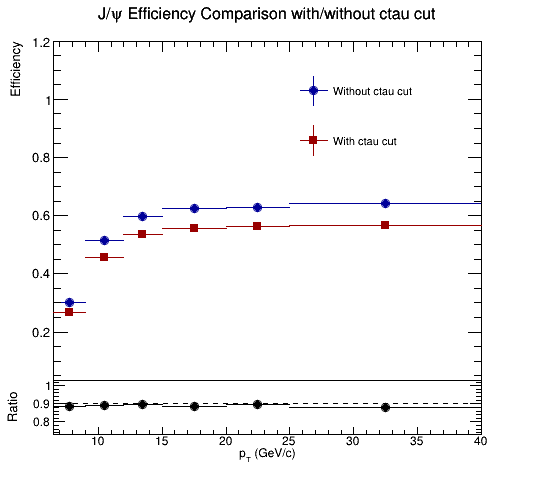
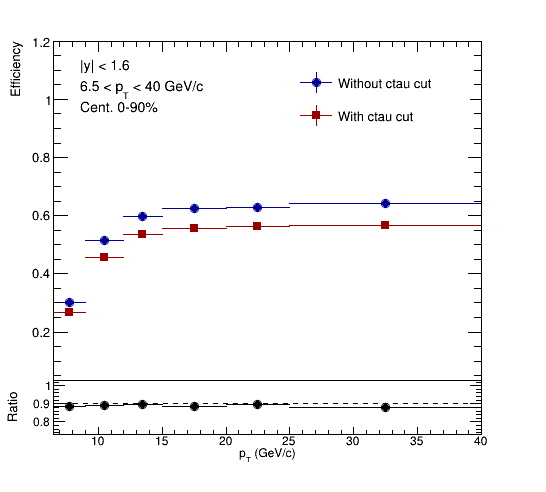
Updated Efficiency with ctau cut efficiency

diff --git a/Eff_Acc/draw_ctauCut.C b/Eff_Acc/draw_ctauCut.C
@@ -13,6 +13,13 @@ using namespace std;
 void draw_ctauCut()
 {
     gStyle->SetOptStat(0);
+
+    float pos_x = 0.70;
+	float pos_y = 0.85;
+	float pos_y_diff = 0.051;
+	int text_color = 1;
+	float text_size = 12;    
+
     TFile *f_pt_PR = new TFile("./roots_ctau3D/ctau3D_cut_ptBin_PRMC_cent0-180.root");
     TFile *f_pt_NP = new TFile("./roots_ctau3D/ctau3D_cut_ptBin_NPMC_cent0-180.root");
     
@@ -22,15 +29,15 @@ void draw_ctauCut()
     TH1D *h_pt_NP_mid = (TH1D*)f_pt_NP->Get("h_ctau_ptBin_mid");    
 
     // Forward rapidity 피팅 함수: a + b/pT
-    TF1* f1_fwd = new TF1("f1_fwd","[0]+[1]/x", 3.5, 40);
-    f1_fwd->SetParameters(0.01, 0.1);  // 초기값 설정
+    TF1* f1_fwd = new TF1("f1_fwd","[0]+[1]/x", 3., 40);
+    f1_fwd->SetParameters(0.01, 0.3);  // 초기값 설정
     f1_fwd->SetParNames("a", "b");
     f1_fwd->SetLineColor(kRed);
     f1_fwd->SetLineWidth(2);
 
     // Mid rapidity 피팅 함수: a + b/pT
     TF1* f1_mid = new TF1("f1_mid","[0]+[1]/x", 6.5, 40);
-    f1_mid->SetParameters(0.01, 0.1);  // 초기값 설정
+    f1_mid->SetParameters(0.01, 0.2);  // 초기값 설정
     f1_mid->SetParNames("a", "b");
     f1_mid->SetLineColor(kRed);
     f1_mid->SetLineWidth(2);
@@ -56,9 +63,9 @@ void draw_ctauCut()
     cout << "b = " << f1_fwd->GetParameter(1) << " +/- " << f1_fwd->GetParError(1) << endl;
     cout << "Chi2/NDF = " << f1_fwd->GetChisquare() << "/" << f1_fwd->GetNDF() << endl;
 
-    drawText(Form("#chi^{2}/NDF = %.2f/%d", f1_fwd->GetChisquare(), f1_fwd->GetNDF()), 0.15, 0.85, 0.03);
-    drawText(Form("a = %.4f #pm %.4f", f1_fwd->GetParameter(0), f1_fwd->GetParError(0)), 0.15, 0.80, 0.03);
-    drawText(Form("b = %.4f #pm %.4f", f1_fwd->GetParameter(1), f1_fwd->GetParError(1)), 0.15, 0.75, 0.03);
+    drawText(Form("#chi^{2}/NDF = %.2f/%d", f1_fwd->GetChisquare(), f1_fwd->GetNDF()), pos_x, pos_y, text_color, text_size);
+    drawText(Form("a = %.4f #pm %.4f", f1_fwd->GetParameter(0), f1_fwd->GetParError(0)), pos_x, pos_y-pos_y_diff, text_color, text_size);
+    drawText(Form("b = %.4f #pm %.4f", f1_fwd->GetParameter(1), f1_fwd->GetParError(1)), pos_x, pos_y-pos_y_diff*2, text_color, text_size);
     
     c_PR_fwd->SaveAs("./figs/ctauCut_ptBin_PR_fwd.pdf");
 
@@ -77,6 +84,9 @@ void draw_ctauCut()
     h_pt_PR_mid->Draw("P");
     f1_mid->Draw("same");
     
+    drawText(Form("#chi^{2}/NDF = %.2f/%d", f1_mid->GetChisquare(), f1_mid->GetNDF()), pos_x, pos_y, text_color, text_size);
+    drawText(Form("a = %.4f #pm %.4f", f1_mid->GetParameter(0), f1_mid->GetParError(0)), pos_x, pos_y-pos_y_diff, text_color, text_size);
+    drawText(Form("b = %.4f #pm %.4f", f1_mid->GetParameter(1), f1_mid->GetParError(1)), pos_x, pos_y-pos_y_diff*2, text_color, text_size);
     // 피팅 결과 출력
     cout << "=== Mid rapidity fit result ===" << endl;
     cout << "a = " << f1_mid->GetParameter(0) << " +/- " << f1_mid->GetParError(0) << endl;

diff --git a/Eff_Acc/compare_Eff.C b/Eff_Acc/compare_Eff.C
@@ -13,6 +13,12 @@ void compare_Eff()
     gStyle->SetOptStat(0);
     gStyle->SetPadTickY(1);
 
+    float pos_x = 0.15;
+	float pos_y = 0.83;
+	float pos_y_diff = 0.051;
+	int text_color = 1;
+	float text_size = 15;
+
     TFile *f1 = new TFile("./roots/mc_eff_vs_pt_cent_0_to_180_rap_prompt_pbpb_JPsi_PtWnomi_tnp1_ctauCut_251125.root"); // w\o ctau cut
     TFile *f2 = new TFile("./roots/mc_eff_vs_pt_cent_0_to_180_rap_prompt_pbpb_JPsi_PtWnomi_tnp1_ctauCut_260107_test.root"); // w/ ctau cut
 
@@ -35,7 +41,7 @@ void compare_Eff()
     h_eff2->SetLineColor(kRed+2);
     h_eff2->SetMarkerColor(kRed+2);
     h_eff2->SetMarkerStyle(21);
-    h_eff1->SetTitle("J/#psi Efficiency Comparison with/without ctau cut");
+    h_eff1->SetTitle("");
     h_eff1->GetXaxis()->SetTitle("p_{T} (GeV/c)");
     h_eff1->GetYaxis()->SetTitle("Efficiency");
     h_eff1->GetYaxis()->SetRangeUser(0, 1.2);
@@ -44,12 +50,16 @@ void compare_Eff()
     h_eff1->Draw("PE");
     h_eff2->Draw("PE same"); 
 
-    auto legend = new TLegend(0.55, 0.6, 0.84, 0.84);
+    auto legend = new TLegend(0.55, 0.68, 0.88, 0.84);
     legend->AddEntry(h_eff1, "Without ctau cut", "lep");
     legend->AddEntry(h_eff2, "With ctau cut", "lep");
     legend->SetBorderSize(0);
     legend->SetFillColor(0);
     legend->Draw("E");
+    
+    drawText("1.6 < |y| < 2.4", pos_x, pos_y, text_color, text_size);
+    drawText("3.5 < p_{T} < 40 GeV/c", pos_x, pos_y - pos_y_diff, text_color, text_size);
+    drawText("Cent. 0-90%", pos_x, pos_y - pos_y_diff*2, text_color, text_size);
     
     TPad *pad_A_2 = new TPad("pad_A_2","",0,0.06,0.98,0.227);
     c_pT_fwd->cd();
@@ -98,7 +108,7 @@ void compare_Eff()
     h_eff4->SetLineColor(kRed+2);
     h_eff4->SetMarkerColor(kRed+2);
     h_eff4->SetMarkerStyle(21);
-    h_eff3->SetTitle("J/#psi Efficiency Comparison with/without ctau cut");
+    h_eff3->SetTitle("");
     h_eff3->GetXaxis()->SetTitle("p_{T} (GeV/c)");
     h_eff3->GetYaxis()->SetTitle("Efficiency");
     h_eff3->GetYaxis()->SetRangeUser(0, 1.2);
@@ -107,7 +117,11 @@ void compare_Eff()
     h_eff3->Draw("PE");
     h_eff4->Draw("PE same"); 
 
-    auto legend_B = new TLegend(0.55, 0.6, 0.84, 0.84);
+    drawText("|y| < 1.6", pos_x, pos_y, text_color, text_size);
+    drawText("6.5 < p_{T} < 40 GeV/c", pos_x, pos_y - pos_y_diff, text_color, text_size);
+    drawText("Cent. 0-90%", pos_x, pos_y - pos_y_diff*2, text_color, text_size);
+
+    auto legend_B = new TLegend(0.55, 0.68, 0.88, 0.84);
     legend_B->AddEntry(h_eff3, "Without ctau cut", "lep");
     legend_B->AddEntry(h_eff4, "With ctau cut", "lep");
     legend_B->SetBorderSize(0);
